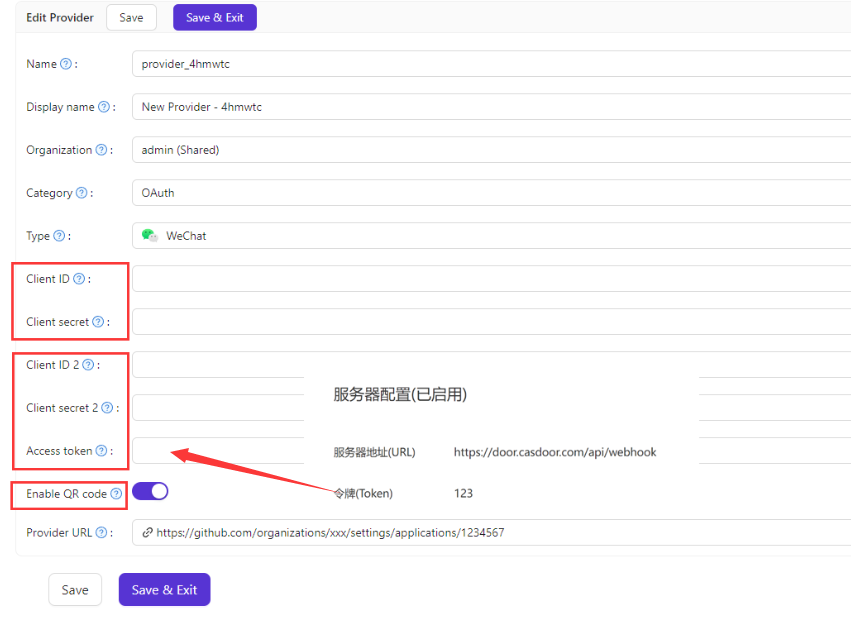
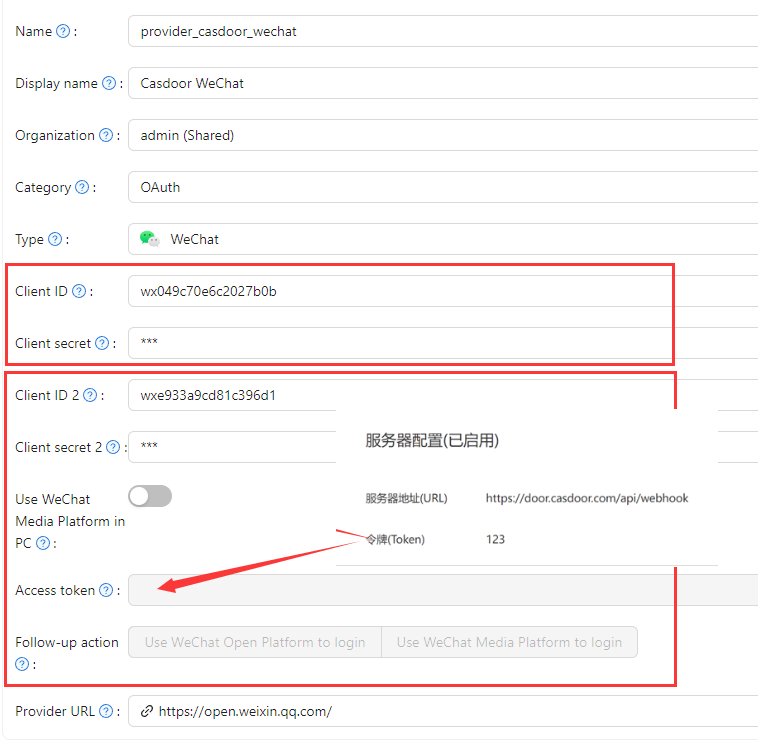
docs: update docs for wechat oauth provider

diff --git a/docs/provider/oauth/Wechat.md b/docs/provider/oauth/Wechat.md
@@ -20,7 +20,7 @@ The WeChat provider offers two different sets of keypairs:
 
 - The second keypair (`Client ID 2`, `Client Secret 2`) and `Access Token` field is for the `WeChat Media Platform (微信公众平台)` and is intended for the inside-WeChat-app login scenario.`Access Token` field is the `Token` you fill in the `server configuration` of the `WeChat Media Platform (微信公众平台)`. It enables users to log in with the WeChat built-in browser inside the WeChat mobile app, which will redirect them to your `WeChat Official Account (微信公众号)` to log in. Please note that WeChat does not support logging in outside of the WeChat app in other mobile browsers or apps. This limitation is imposed by WeChat and not by Casdoor.
 
-If you fill in the second keypair (`Client ID 2`, `Client Secret 2`), fill the `Access Token` field and enable the `Enable QR code` switch, Casdoor will ask the user to follow the WeChat official account (微信公众号) before proceeding with the login process when the user clicks on the WeChat button to log in. It's important to note that this functionality is only available in the PC login scenario because a mobile phone cannot scan the QR code by itself. When used in the mobile scenario (i.e., the WeChat built-in browser inside the WeChat mobile app), Casdoor will automatically skip this step.
+If you fill in the second keypair (`Client ID 2`, `Client Secret 2`), fill the `Access Token` field and enable the `Enable QR code` switch, then you can choose to login directly using the information from the  `WeChat Media Platform (微信公众平台)` after scanning the QR code, or use the information from the `WeChat Open Platform (微信开放平台)` to login, if you choose `use Wechat Open Platform to login`,after user follow the the WeChat official account (微信公众号), users will be required to scan the QR code of `WeChat Open Platform (微信开放平台)`to login. Casdoor will ask the user to follow the WeChat official account (微信公众号) before proceeding with the login process when the user clicks on the WeChat button to login. It's important to note that this functionality is only available in the PC login scenario because a mobile phone cannot scan the QR code by itself. When used in the mobile scenario (i.e., the WeChat built-in browser inside the WeChat mobile app), Casdoor will automatically skip this step.
 
 :::tip
 
